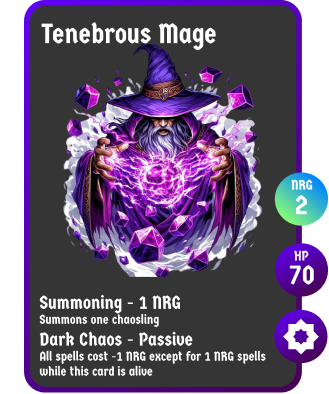
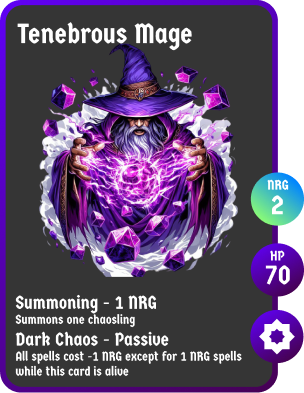
Added info popup and fixed tenebrous mage card asset

diff --git a/ChaosCardGame/UserInterface/card_handler.py b/ChaosCardGame/UserInterface/card_handler.py
@@ -147,7 +147,8 @@ class BoardManager:
     def update_popup(self, popup_event):
         for event in popup_event:
             if (
-                CustomEvents.SLOT_CLICKED == event.type and not event.empty
+                CustomEvents.SLOT_CLICKED == event.type
+                and not event.empty
                 and not self.ui_gamestate["selecting"]
             ):
                 self.popup_info = event.slot
@@ -538,30 +539,24 @@ class BoardManager:
 
 
 class CardInfoPopup:
-    def __init__(self, screen, position: tuple, position_type: str = "topleft") -> None:
+    def __init__(self, screen, position: tuple) -> None:
         self.screen = screen
-        self.position = position
-        self.position_type = position_type
-
-        self.main_surface = Sprites.box_assets["card_info_popup"]["img"]
-        self.main_surface_rect = self.main_surface.get_rect(
-            **{self.position_type: self.position}
-        )
+        self.position = (496, 88)
 
         self.back_btn = ImageButton(
-            self.main_surface,
+            self.screen,
             pygame.event.Event(CustomEvents.INFO_POPUP, {"state": False}),
             image=MenuButtons.button_assets["Back"]["img"],
             position_type="topleft",
-            posiiton=(185.60),
+            position=(581, 526),
         )
 
     def render(self, card_id: str):
         self.card_img = CardAssets.card_sprites[card_id]["img"][1]
-        self.main_surface.blit(self.card_img, (51, 23))
+        self.screen.blit(Sprites.box_assets["card_info_popup"]["img"], self.position)
+        self.screen.blit(self.card_img, (548, 111))
         self.back_btn.answer()
         self.back_btn.render()
-        self.screen.blit(self.main_surface, self.main_surface_rect)
 
 
 class DeckCardHolder:
@@ -607,6 +602,7 @@ class DeckManager:
             position=(545, 587),
         )
         self.show_info = False
+        self.info_popup = CardInfoPopup(self.screen, (469, 88))
 
     def render(self, events):
         self.screen.blit(self.deck_bg, (209, 38))
@@ -627,32 +623,15 @@ class DeckManager:
             self.back_btn.answer()
             self.back_btn.render()
 
-    def generate_info(self, card_id):
-        self.info_main_screen = Sprites.box_assets["card_info_popup"]["img"]
-        self.info_back_btn = ImageButton(
-            self.screen,
-            pygame.event.Event(CustomEvents.INFO_POPUP, {"state": False}),
-            image=MenuButtons.button_assets["Back"]["img"],
-            position_type="topleft",
-            position=(545, 587),
-        )
-        self.info_card_img = CardAssets.card_sprites[card_id]["img"][1]
-
-    def render_info(self):
-        self.screen.blit(self.info_main_screen, (468, 143))
-        self.info_back_btn.answer()
-        self.info_back_btn.render()
-        self.screen.blit(self.info_card_img, (519, 166))
-
     def handle_info(self, events):
         for event in events:
             if event.type == CustomEvents.INFO_POPUP:
                 self.show_info = event.state
                 if self.show_info:
-                    self.generate_info(event.card_id)
+                    self.card_info = event.card_id
 
         if self.show_info:
-            self.render_info()
+            self.info_popup.render(self.card_info)
 
 
 class HandManager:
@@ -671,16 +650,30 @@ class HandManager:
         )
         self.hand = []
         self.hand_holders = [HandGroup(self.screen, index) for index in range(6)]
+        self.info_pop = CardInfoPopup(self.screen, (469, 88))
+        self.info_card = None
+        self.show_info = False
 
     def render(self, hand: list, events):
         self.screen.blit(self.bg_img, (241, 163))
         if self.hand != hand:
             self.update_hand(hand)
+        for event in events:
+            if event.type == CustomEvents.INFO_POPUP:
+                if event.state:
+                    self.info_card = event.card_id
+                    self.show_info = True
+                elif event.state is False:
+                    self.show_info = False
+
         self.render_hand(
             [pygame.mouse.get_pos(), search_event(events, [pygame.MOUSEBUTTONDOWN])]
         )
         self.back_btn.render()
-        self.back_btn.answer()
+        self.back_btn.answer(not self.show_info)
+
+        if self.show_info:
+            self.info_pop.render(self.info_card)
 
     def update_hand(self, hand):
         self.hand = hand

diff --git a/ChaosCardGame/UserInterface/OcgVision/vision_main.py b/ChaosCardGame/UserInterface/OcgVision/vision_main.py
@@ -46,8 +46,8 @@ class State:
         Checks state ownership and runs the state_manager_hook.
 
     """
-    # state_tree = ["MainMenu","PlayMenu","HostMenu","LobbyMenu","GameMenu"]
-    state_tree = ["MainMenu"]
+    state_tree = ["MainMenu","PlayMenu","HostMenu","LobbyMenu","GameMenu"]
+    # state_tree = ["MainMenu"]
     events = []
 
     def __init__(
@@ -182,7 +182,7 @@ class ImageButton:
         else:
             self.state = self.all_states[0]
 
-    def answer(self) -> any:
+    def answer(self,active=True) -> any:
         """
         Checks if the mouse is clicked on the button i.e button is in click state
         and if so execute the callback function or return the callback object.
@@ -196,6 +196,7 @@ class ImageButton:
         if (
             self.previous_state == self.all_states[2]
             and self.state == self.all_states[1]
+            and active
         ):
             if isinstance(self.call_back, pygame.event.Event):
                 pygame.event.post(self.call_back)

diff --git a/ChaosCardGame/main.py b/ChaosCardGame/main.py
@@ -1,5 +1,5 @@
-# from icecream import install, ic
-# install()
+from icecream import install, ic
+install()
 #fmt: off
 import logging
 import traceback
